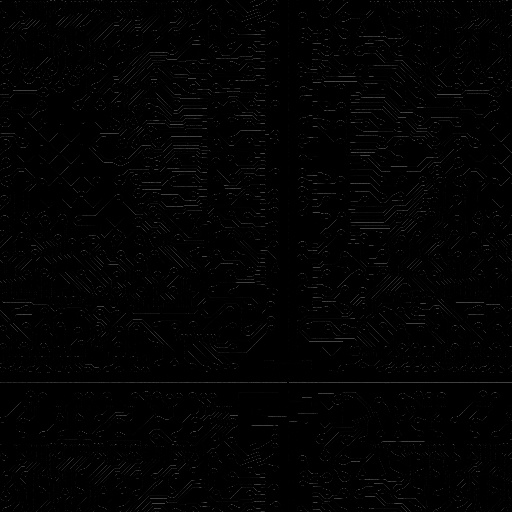
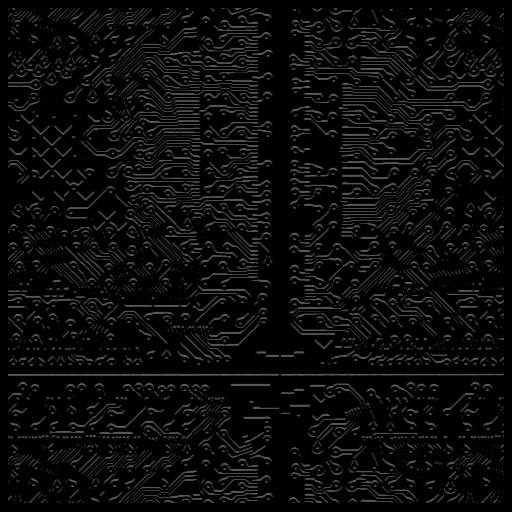
EX8 Update

Changed region(s): [[0.0, 0.0, 1.0, 1.0], [0.0625, 0.9375, 0.1562, 1.0], [0.9375, 0.9375, 0.9688, 1.0]]

diff --git a/ex8/ex8.cpp b/ex8/ex8.cpp
@@ -29,6 +29,7 @@ void Seq_Gaborfilter(float Gvar, float Gtheta, float Glambda, float Gpsi, int Gk
 int main()
 {
     Mat pInput = imread("../image/Grab_Image.bmp", 0);
+    resize(pInput, pInput, Size(512, 512));
 
     int w = pInput.cols;
     int ws = pInput.cols;
@@ -54,7 +55,7 @@ int main()
         // copy input image across to the device
         (cudaMemcpy(pcuSrc, pfInput.data, w * h * sizeof(float), cudaMemcpyHostToDevice));
 
-        int kernel_size = 5;
+        int kernel_size = 17;
         float *Gkernel = new float[kernel_size * kernel_size];
         Seq_Gaborfilter(0.5, (180.0 * 3.141593 / 180), (0.55), (90 * 3.141593 / 180), kernel_size, Gkernel);
 
@@ -71,7 +72,6 @@ int main()
         ptime[i] = double(std::chrono::duration_cast<std::chrono::microseconds>(f1 - s1).count()) / 1000000;
         Mat result(Size(pInput.cols, pInput.rows), CV_32FC1, pDst);
         result.convertTo(result, CV_8UC1);
-        resize(result, result, Size(512, 512));
         presult[i] = result;
 
         cudaFree(pcuSrc);
@@ -84,6 +84,9 @@ int main()
         printf("%s more Faster than Global about %d % \n", types[i].c_str(), int((ptime[0] / ptime[i]) * 100));
     for (int i = 0; i < 3; i++)
         imwrite("../result/" + types[i] + ".jpg", presult[i]);
+
+    imshow(types[1], presult[1]);
+    waitKey(0);
 
     // for (int i = 0; i < 3; i++)
     // {
